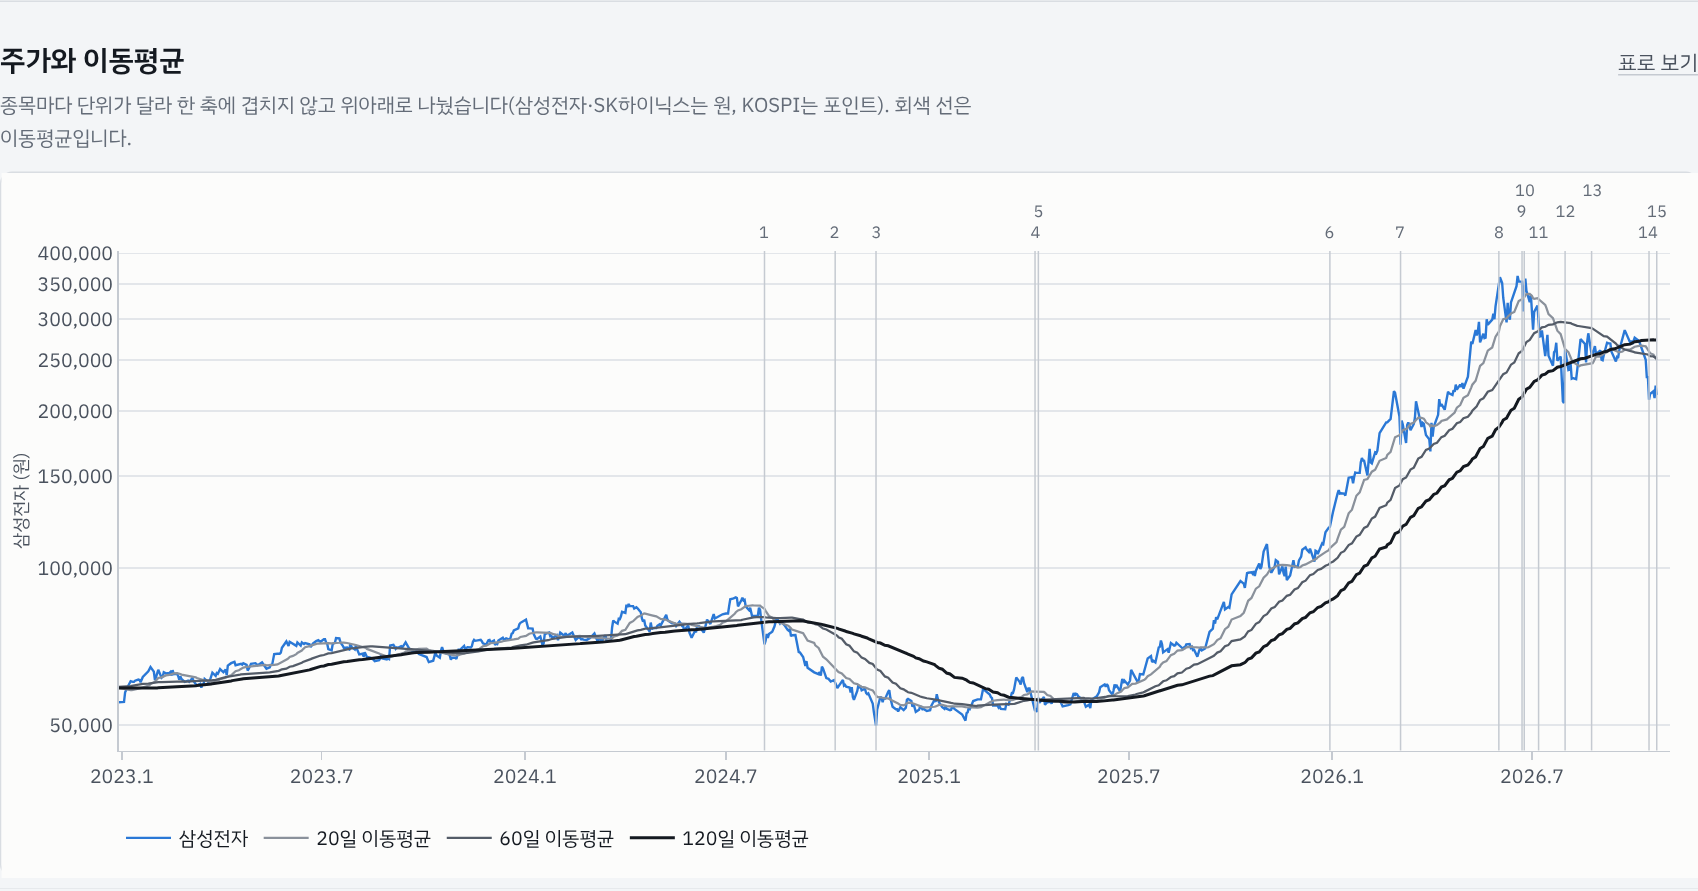
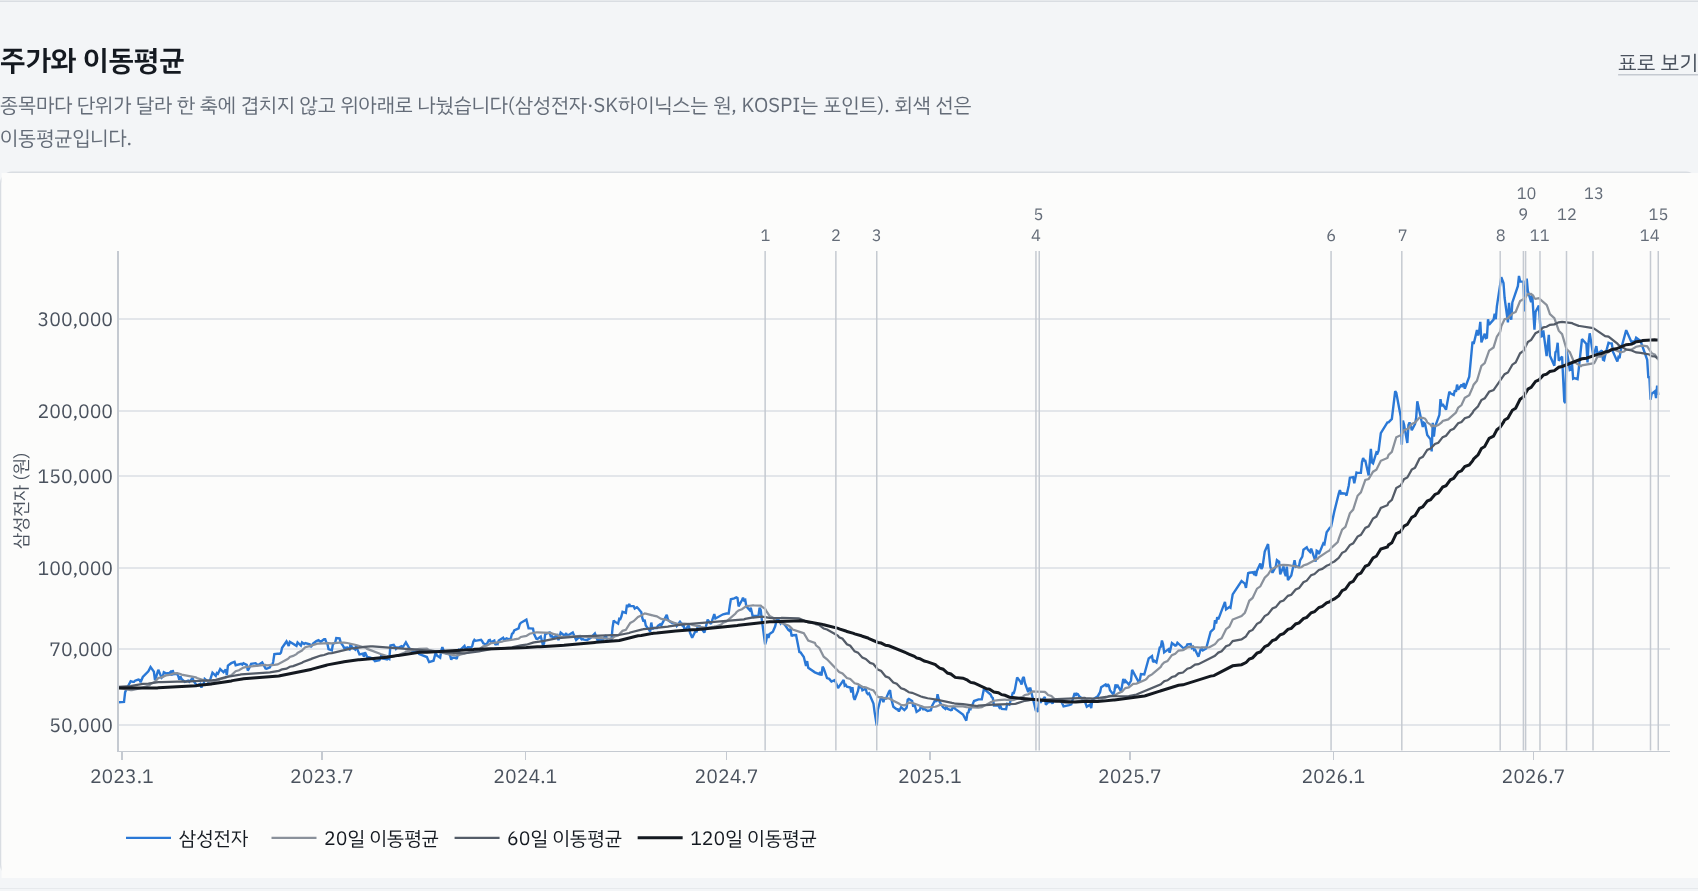
fix: 대시보드 로그 눈금을 전체 숫자로 표시
Plotly 기본 로그 눈금은 1,000 다음을 '2, 3, 4'처럼 앞자리만 적어 2,000으로 읽기 어려웠다.
값의 폭이 3배 이상이면 1·2·3·5(좁으면 1·1.5·2·3·4·5·7) × 10ⁿ 눈금을 쉼표 넣은 전체 숫자로 적는다.
누적 수익률과 주가 그래프에 적용하고, 바뀐 스크린샷 2장과 AI 사용 로그를 갱신했다.

diff --git a/개인/M1-1/docs/app.js b/개인/M1-1/docs/app.js
@@ -207,6 +207,20 @@
   function yAxis(extra) {
     return Object.assign({ gridcolor: css("--grid"), zeroline: false, linecolor: css("--axis"), automargin: true, tickfont: { color: css("--ink-2") } }, extra || {});
   }
+  // 로그 눈금 숫자: Plotly 기본값은 1,000 다음 눈금을 '2, 3, 4'처럼 앞자리만 적어 2,000인지 알기 어렵다.
+  // 값의 폭이 3배 이상이면 정해 둔 눈금(× 10ⁿ)만 전체 숫자로 적는다. 폭이 15배 이상이면 1·2·3·5, 그보다 좁으면
+  // 1·1.5·2·3·4·5·7로 촘촘히 둔다. 폭이 3배보다 좁으면 Plotly 기본값(전체 숫자로 나온다)을 쓴다.
+  function logTicks(values) {
+    let lo = Infinity, hi = -Infinity;
+    values.forEach((v) => { if (v > 0 && isFinite(v)) { if (v < lo) lo = v; if (v > hi) hi = v; } });
+    if (!(hi / lo >= 3)) return {};
+    const mults = hi / lo >= 15 ? [1, 2, 3, 5] : [1, 1.5, 2, 3, 4, 5, 7];
+    const vals = [];
+    for (let p = Math.floor(Math.log10(lo)); p <= Math.ceil(Math.log10(hi)); p++) {
+      mults.forEach((m) => { const t = m * Math.pow(10, p); if (t >= lo * 0.9 && t <= hi * 1.1) vals.push(t); });
+    }
+    return { tickmode: "array", tickvals: vals, ticktext: vals.map((t) => nf0.format(t)) };
+  }
   function line(name, x, y, colorVar, extra) {
     return Object.assign({
       type: "scatter", mode: "lines", name, x, y,
@@ -245,7 +259,8 @@
         const c = COLS[SERIES[k].close], base = c[range.b];
         traces.push(line(SERIES[k].name, xs, c.slice(range.b, range.e + 1).map((v) => (v / base) * 100), SERIES[k].color));
       });
-      layout.yaxis = yAxis({ type: state.log ? "log" : "linear", title: { text: "출발값 = 100", font: { size: 12 } } });
+      layout.yaxis = yAxis(Object.assign({ type: state.log ? "log" : "linear", tickformat: ",.0f", title: { text: "출발값 = 100", font: { size: 12 } } },
+        state.log ? logTicks(traces.flatMap((t) => t.y)) : {}));
       layout.shapes.push({ type: "line", xref: "paper", x0: 0, x1: 1, yref: "y", y0: 100, y1: 100, line: { color: css("--axis"), width: 1 } });
     } else if (m === "price") {
       const n = keys.length || 1;
@@ -256,11 +271,13 @@
         const axisName = i === 0 ? "y" : "y" + (i + 1);
         const layoutKey = i === 0 ? "yaxis" : "yaxis" + (i + 1);
         const top = 1 - i * (h + gap);
-        layout[layoutKey] = yAxis({
+        const shown = [COLS[S.close]].concat([20, 60, 120].filter((w) => state.ma.has(w)).map((w) => COLS[S.ma + w]))
+          .flatMap((c) => c.slice(range.b, range.e + 1));
+        layout[layoutKey] = yAxis(Object.assign({
           domain: [top - h, top], type: state.log ? "log" : "linear",
           title: { text: `${S.name} (${S.unit})`, font: { size: 12 } },
           tickformat: ",.0f",
-        });
+        }, state.log ? logTicks(shown) : {}));
         const fmt = k === "KOSPI" ? "%{y:,.2f}" : "%{y:,.0f}원";
         traces.push(line(S.name, xs, COLS[S.close].slice(range.b, range.e + 1), S.color, { yaxis: axisName, hovertemplate: fmt, line: { color: css(S.color), width: 1.6 } }));
         const shades = { 20: "--ma20", 60: "--ma60", 120: "--ma120" };

diff --git a/개인/M1-1/REPORT.md b/개인/M1-1/REPORT.md
@@ -372,7 +372,7 @@
 
 ## 10. AI 사용 로그
 
-**역할 분담:** 김성태가 미션 수행을 요청하고 결과 검토·발표를 맡았다. Claude(Anthropic의 AI)가 주제 제안부터 데이터 수집, 코드, 그림, 대시보드, 리포트 초안까지 실행했다. AI가 쓴 해석은 '관찰'과 '가설'로 나눠 적었고, 원인 설명은 기사로 확인되는 경우에만 출처와 함께 썼다.
+**역할 분담:** 김성태가 미션 수행을 요청하고, 저장소 생성과 GitHub Pages 공개 설정, 공개된 대시보드 화면 확인, 결과 검토·발표를 맡았다. Claude(Anthropic의 AI)가 주제 제안부터 데이터 수집, 코드, 그림, 대시보드, 리포트 초안까지 실행했다. AI가 쓴 해석은 '관찰'과 '가설'로 나눠 적었고, 원인 설명은 기사로 확인되는 경우에만 출처와 함께 썼다.
 
 | 작업 | 사용 도구 | 사용 이유 | 검증 방법 |
 |---|---|---|---|
@@ -397,6 +397,7 @@
 7. **STL 계절 모양이 실제로는 고정되지 않음:** 독립 검토에서 'seasonal=999만으로는 계절 모양이 고정되지 않는다'는 지적을 받았다. statsmodels 기본값(seasonal_deg=1)은 같은 달 값이 해마다 직선으로 바뀌는 것을 허용해서, 예를 들어 9월 계절 성분이 2023년 +4.1%에서 2026년 -20.0%까지 움직였다. 직접 재현한 뒤 seasonal_deg=0을 넣어 진짜로 고정했고, 계절성 강도는 0.54에서 0.28로 내려갔다. 추세 끝값이 실제보다 높게 남는 끝점 효과도 이때 확인해 8.2절에 적었다.
 8. **문장과 표의 어긋남:** 'Q2 가설 2(2025~2026년 격차 축소)'가 표(2025년 -149.0%p)와 맞지 않는다는 지적을 받았다. 상대 성과·로그 격차 분해와 2026년 6월 22일 전후 분해를 추가해 문장을 고쳤다. 가설을 사실처럼 쓴 문장(그림 5 제목, 인사이트 4의 '가장 정확', 결론의 '쓸모 있었다')도 관찰과 가설로 나눠 다시 썼다.
 9. **점검 방식 보강:** 휴장일 참고표를 데이터의 빈 날에서 거꾸로 만들던 방식을 공휴일 달력에서 만드는 방식으로 바꿔 두 방향 대조가 되게 했고(결과는 같은 67일), 교차 대조 개수에서 출발값(2022-12-29 KOSPI 종가)을 뺐다(52개 → 51개). 95% 예측 구간의 과거 적중률(88.7%)도 새로 계산했다.
+10. **대시보드 로그 눈금:** 김성태가 공개된 대시보드 화면을 캡처해 공유했고, 그 화면을 확인하다가 누적 수익률 그래프의 로그 눈금이 1,000 다음을 '2, 3, 4'처럼 앞자리만 적어 2,000·3,000으로 읽기 어려운 것을 발견했다. 값의 폭에 맞춰 1·2·3·5 단위(폭이 좁으면 더 촘촘히)의 전체 숫자로 적게 고쳤다.
 
 ---
 
